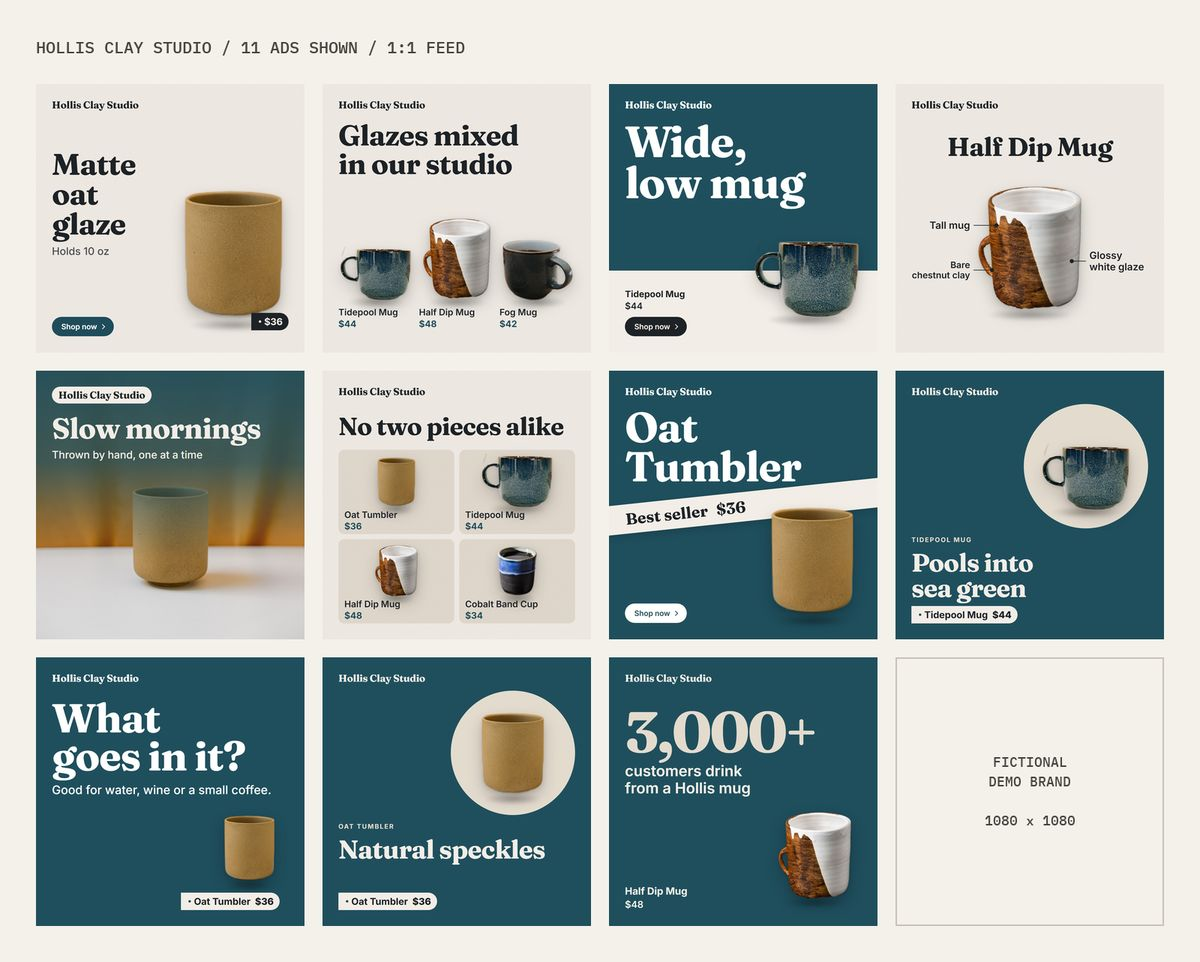
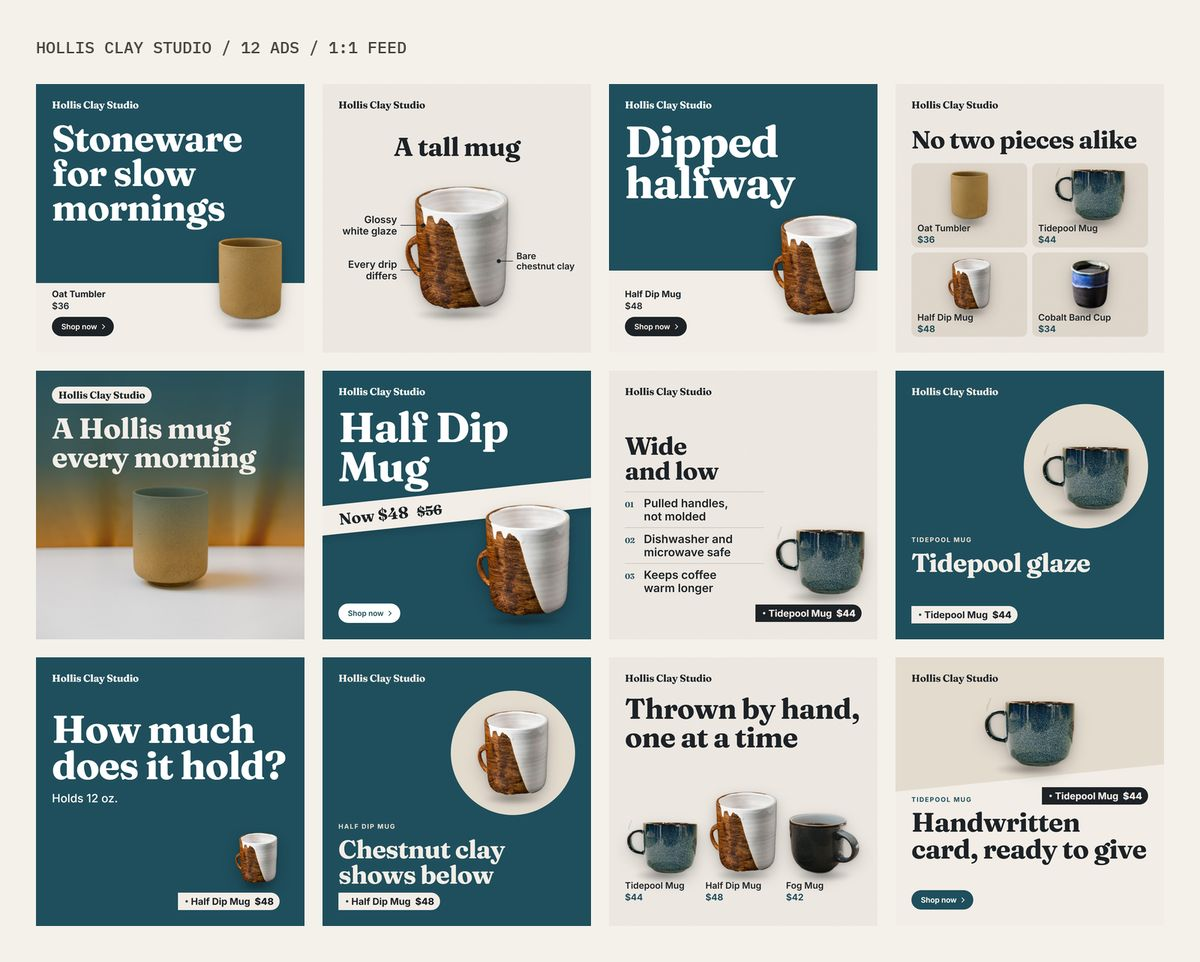
Evergreen Ad Pack sample

diff --git a/ad-pack.html b/ad-pack.html
@@ -169,15 +169,15 @@
           <h2 id="sample-title">A sample pack for a fictional brand.</h2>
         </div>
         <div class="spread">
-          <figure class="print s3"><img src="assets/demo/ad-pack-contact-sheet-1x1.jpg" width="1200" height="962" loading="lazy" alt="Contact sheet of eleven square ads for Hollis Clay Studio, a fictional stoneware brand: mugs, tumblers and a cup on oat and deep teal backgrounds."><figcaption>Contact sheet / 1:1 feed</figcaption></figure>
-          <figure class="print s3"><img src="assets/demo/ad-pack-contact-sheet-4x5.jpg" width="1200" height="1164" loading="lazy" alt="Contact sheet of the same eleven ads in portrait 4:5."><figcaption>Contact sheet / 4:5 portrait</figcaption></figure>
-          <figure class="print s6 middle4"><img src="assets/demo/ad-pack-contact-sheet-9x16.jpg" width="1200" height="752" loading="lazy" alt="Contact sheet of the same eleven ads in 9:16 for stories."><figcaption>Contact sheet / 9:16 stories</figcaption></figure>
-          <figure class="print s1"><img src="assets/demo/ad-01-1x1.jpg" width="1080" height="1080" loading="lazy" alt="Square product hero ad: Matte oat glaze, holds 10 oz, with the Oat Tumbler at $36."><figcaption>Ad 01 / product hero</figcaption></figure>
-          <figure class="print s1"><img src="assets/demo/ad-02-4x5.jpg" width="960" height="1200" loading="lazy" alt="Portrait product hero ad: Wide, low mug, the speckled indigo Tidepool Mug at $44."><figcaption>Ad 02 / product hero</figcaption></figure>
-          <figure class="print s1"><img src="assets/demo/ad-03-1x1.jpg" width="1080" height="1080" loading="lazy" alt="Square feature callouts ad for the Half Dip Mug: tall mug, bare chestnut clay, glossy white glaze."><figcaption>Ad 03 / callouts</figcaption></figure>
-          <figure class="print s1"><img src="assets/demo/ad-04-9x16.jpg" width="675" height="1200" loading="lazy" alt="Stories lifestyle ad: Slow mornings, thrown by hand, one at a time, a tumbler on a table in warm light."><figcaption>Ad 04 / lifestyle</figcaption></figure>
-          <figure class="print s1"><img src="assets/demo/ad-05-4x5.jpg" width="960" height="1200" loading="lazy" alt="Portrait product grid ad: No two pieces alike, with the Oat Tumbler, Tidepool Mug, Half Dip Mug and Cobalt Band Cup and their prices."><figcaption>Ad 05 / product grid</figcaption></figure>
-          <figure class="print s1"><img src="assets/demo/ad-06-1x1.jpg" width="1080" height="1080" loading="lazy" alt="Square question hook ad: What goes in it? Good for water, wine or a small coffee, with the Oat Tumbler at $36."><figcaption>Ad 06 / question hook</figcaption></figure>
+          <figure class="print s3"><img src="assets/demo/ad-pack-contact-sheet-1x1.jpg" width="1200" height="962" loading="lazy" alt="Contact sheet of all twelve square ads for Hollis Clay Studio, a fictional stoneware brand: mugs, tumblers and a cup on oat and deep teal backgrounds."><figcaption>Contact sheet / 1:1 feed</figcaption></figure>
+          <figure class="print s3"><img src="assets/demo/ad-pack-contact-sheet-4x5.jpg" width="1200" height="1164" loading="lazy" alt="Contact sheet of the same twelve ads in portrait 4:5."><figcaption>Contact sheet / 4:5 portrait</figcaption></figure>
+          <figure class="print s6 middle4"><img src="assets/demo/ad-pack-contact-sheet-9x16.jpg" width="1200" height="752" loading="lazy" alt="Contact sheet of the same twelve ads in 9:16 for stories."><figcaption>Contact sheet / 9:16 stories</figcaption></figure>
+          <figure class="print s1"><img src="assets/demo/ad-01-1x1.jpg" width="1080" height="1080" loading="lazy" alt="Square product hero ad: Stoneware for slow mornings, with the Oat Tumbler at $36."><figcaption>Ad 01 / product hero</figcaption></figure>
+          <figure class="print s1"><img src="assets/demo/ad-02-4x5.jpg" width="960" height="1200" loading="lazy" alt="Portrait feature callouts ad: A tall mug, the Half Dip Mug with glossy white glaze, bare chestnut clay and every drip different."><figcaption>Ad 02 / callouts</figcaption></figure>
+          <figure class="print s1"><img src="assets/demo/ad-03-1x1.jpg" width="1080" height="1080" loading="lazy" alt="Square product grid ad: No two pieces alike, with the Oat Tumbler, Tidepool Mug, Half Dip Mug and Cobalt Band Cup and their prices."><figcaption>Ad 03 / product grid</figcaption></figure>
+          <figure class="print s1"><img src="assets/demo/ad-04-9x16.jpg" width="675" height="1200" loading="lazy" alt="Stories gift ad: Handwritten card, ready to give, with the speckled indigo Tidepool Mug at $44."><figcaption>Ad 04 / gift</figcaption></figure>
+          <figure class="print s1"><img src="assets/demo/ad-05-4x5.jpg" width="960" height="1200" loading="lazy" alt="Portrait offer ad: the Half Dip Mug, now $48, was $56."><figcaption>Ad 05 / offer</figcaption></figure>
+          <figure class="print s1"><img src="assets/demo/ad-06-1x1.jpg" width="1080" height="1080" loading="lazy" alt="Square three reasons ad: Wide and low, with pulled handles, dishwasher and microwave safe, keeps coffee warm longer, and the Tidepool Mug at $44."><figcaption>Ad 06 / three reasons</figcaption></figure>
         </div>
         <div class="gallery-foot">
           <p class="mono">Demo brand: Hollis Clay Studio is fictional. Photos under free license (Pexels).</p>

diff --git a/p/sample-ad-pack/index.html b/p/sample-ad-pack/index.html
@@ -30,11 +30,11 @@ h2{font-size:28px;margin:64px 0 18px;letter-spacing:-.01em}
 .plan b{font-size:20px} .plan span{color:#55554f}
 .buy{display:inline-block;background:#1b1b1a;color:#fff;text-decoration:none;font-weight:600;padding:14px 24px;border-radius:999px;white-space:nowrap}
 .note{font-weight:600;color:#1b1b1a}
-.sample{display:inline-block;margin-bottom:22px;padding:6px 14px;border:1.5px dashed #8a8a80;border-radius:999px;font-size:15px;font-weight:600;color:#44443f}
 ul.inc{list-style:none;display:grid;grid-template-columns:repeat(auto-fill,minmax(280px,1fr));gap:12px}
 ul.inc li{background:#fff;border-radius:12px;padding:16px 18px}
 details{background:#fff;border-radius:12px;padding:16px 20px;margin-bottom:10px}
 summary{font-weight:600;cursor:pointer} details p{margin-top:10px;color:#44443f}
+.sample{display:inline-block;margin-bottom:22px;padding:6px 14px;border:1.5px dashed #8a8a80;border-radius:999px;font-size:15px;font-weight:600;color:#44443f}
 footer{margin-top:64px;font-size:14px;color:#6b6b64} footer a{color:inherit}
 @media (max-width:760px){.gift{grid-template-columns:1fr}}
 @media (max-width:560px){.grid{grid-template-columns:1fr 1fr;gap:10px}.grid img{border-radius:8px}}
@@ -56,17 +56,17 @@ footer{margin-top:64px;font-size:14px;color:#6b6b64} footer a{color:inherit}
 </section>
 
 <h2>The other 11</h2>
-<div class="grid"><img src="02-gift-1080x1350.jpg" alt="Ad preview" loading="lazy" width="720" height="900">
-<img src="03-variant-spread-1080x1350.jpg" alt="Ad preview" loading="lazy" width="720" height="900">
-<img src="04-hero-benefit-1080x1350.jpg" alt="Ad preview" loading="lazy" width="720" height="900">
-<img src="05-callouts-1080x1350.jpg" alt="Ad preview" loading="lazy" width="720" height="900">
-<img src="06-lifestyle-overlay-1080x1350.jpg" alt="Ad preview" loading="lazy" width="720" height="900">
-<img src="07-product-grid-1080x1350.jpg" alt="Ad preview" loading="lazy" width="720" height="900">
-<img src="08-offer-1080x1350.jpg" alt="Ad preview" loading="lazy" width="720" height="900">
-<img src="09-material-spotlight-1080x1350.jpg" alt="Ad preview" loading="lazy" width="720" height="900">
-<img src="10-question-hook-1080x1350.jpg" alt="Ad preview" loading="lazy" width="720" height="900">
-<img src="11-material-spotlight-1080x1350.jpg" alt="Ad preview" loading="lazy" width="720" height="900">
-<img src="12-big-stat-1080x1350.jpg" alt="Ad preview" loading="lazy" width="720" height="900"></div>
+<div class="grid"><img src="02-callouts-1080x1350.jpg" alt="Ad preview" loading="lazy" width="720" height="900">
+<img src="03-hero-benefit-1080x1350.jpg" alt="Ad preview" loading="lazy" width="720" height="900">
+<img src="04-product-grid-1080x1350.jpg" alt="Ad preview" loading="lazy" width="720" height="900">
+<img src="05-lifestyle-overlay-1080x1350.jpg" alt="Ad preview" loading="lazy" width="720" height="900">
+<img src="06-offer-1080x1350.jpg" alt="Ad preview" loading="lazy" width="720" height="900">
+<img src="07-three-reasons-1080x1350.jpg" alt="Ad preview" loading="lazy" width="720" height="900">
+<img src="08-material-spotlight-1080x1350.jpg" alt="Ad preview" loading="lazy" width="720" height="900">
+<img src="09-question-hook-1080x1350.jpg" alt="Ad preview" loading="lazy" width="720" height="900">
+<img src="10-material-spotlight-1080x1350.jpg" alt="Ad preview" loading="lazy" width="720" height="900">
+<img src="11-variant-spread-1080x1350.jpg" alt="Ad preview" loading="lazy" width="720" height="900">
+<img src="12-gift-1080x1350.jpg" alt="Ad preview" loading="lazy" width="720" height="900"></div>
 
 <h2>Get the full pack</h2>
 <div class="plans">
@@ -89,5 +89,5 @@ footer{margin-top:64px;font-size:14px;color:#6b6b64} footer a{color:inherit}
 <details><summary>Can I change something?</summary><p>Yes. Tell us the change you want (a different product, a shorter line) and we will look at it with you.</p></details>
 <details><summary>Can I run these as ads right away?</summary><p>Yes. The files are sized for Meta, Instagram and TikTok placements.</p></details>
 <details><summary>Why did I get this?</summary><p>We make ad packs for small brands we like, before we reach out, so you can see the work first instead of a pitch.</p></details>
-<footer><p>Already Made. This page is private and not indexed. It will be deleted on December 4, 2026. <a href="../../ad-pack.html">Back to the Ad Pack</a></p></footer>
+<footer><p>Already Made. A real preview page is private, not indexed, and deleted after 21 days. <a href="../../ad-pack.html">Back to the Ad Pack</a></p></footer>
 </div></body></html>
